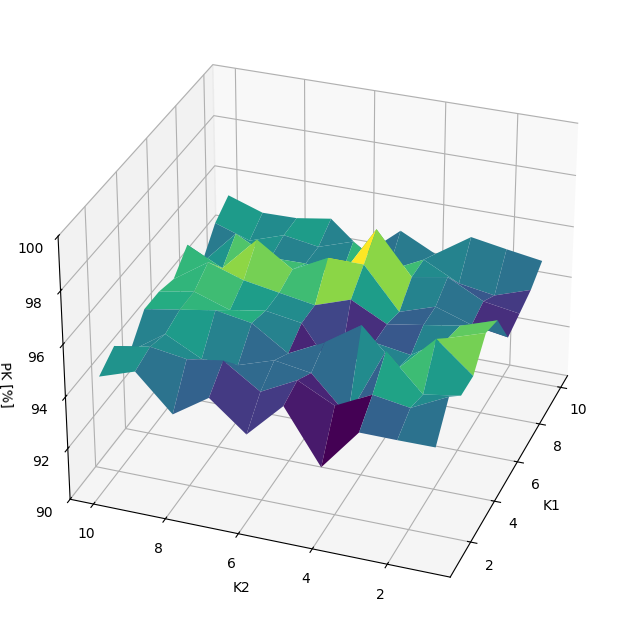
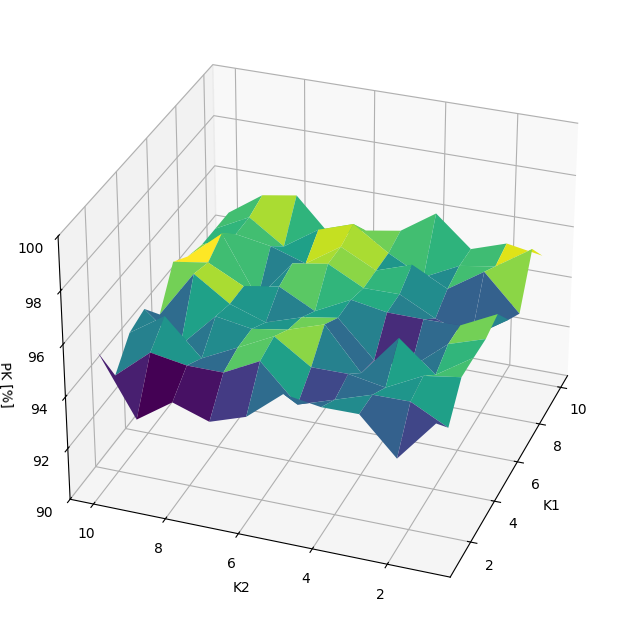
Uaktualnienie parametrów

Changed region(s): [[0.1494, 0.2987, 0.8664, 0.7469]]

diff --git a/exp3_waznosc_glosowan.py b/exp3_waznosc_glosowan.py
@@ -11,13 +11,13 @@ x, y_t, x_norm, x_n_s, y_t_s = hkl.load('kongres.hkl')
 x_oryginalne = x_norm.copy()
 liczba_cech = x_oryginalne.shape[0]
 
-K1_fixed = 8
-K2_fixed = 5
+K1_fixed = 10
+K2_fixed = 4
 max_epoch = 60
 err_goal = 0.05 
 disp_freq = 10 
 lr_fixed = 1e-4
-mc_fixed = 0.8
+mc_fixed = 0.45
 
 CVN = 10
 skfold = StratifiedKFold(n_splits=CVN, shuffle=True, random_state=42)

diff --git a/exp4_ilosc_danych.py b/exp4_ilosc_danych.py
@@ -12,12 +12,12 @@ X_all = x_norm.T
 Y_all = y_t.T     
 
 # 2. Parametry sieci
-K1_fixed, K2_fixed = 8, 5
+K1_fixed, K2_fixed = 10, 4
 max_epoch = 80
 err_goal = 0.05 
 disp_freq = 10 
 lr_fixed = 1e-4
-mc_fixed = 0.80
+mc_fixed = 0.45
 
 
 X_train_pula, X_test, Y_train_pula, Y_test = train_test_split(

diff --git a/exp2_parametry_uczenia.py b/exp2_parametry_uczenia.py
@@ -9,8 +9,8 @@ from mlp_core import mlp_m_3w
 x, y_t, x_norm, x_n_s, y_t_s = hkl.load('kongres.hkl')
 x = x_norm
 
-K1_fixed = 8
-K2_fixed = 5
+K1_fixed = 10
+K2_fixed = 4
 max_epoch = 400
 err_goal = 0.05 
 disp_freq = 10 
